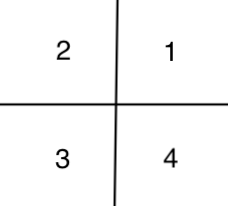
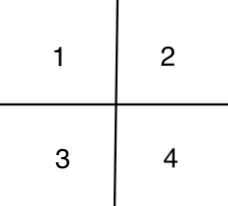
Changed positions and started making changes for multiple shapes.

Changed region(s): [[0.2149, 0.1748, 0.307, 0.3204], [0.7061, 0.2039, 0.7675, 0.3204]]

diff --git a/ACS330_WebApp/Item_Order.html b/ACS330_WebApp/Item_Order.html
@@ -229,7 +229,7 @@
 
 	.column {
 		float: left;
-		width: 33.33%;
+		width: 50%;
 		padding: 2px;
 	}
 
@@ -260,25 +260,38 @@
 	<fieldset>
 	<div class="row">
 		<div class="column";">
-			<h2>Position</h2>
-			<input type="radio" name="Position"> <a class="ref">1</a><br />
-			<input type="radio" name="Position"> <a class="ref">2</a><br />
-			<input type="radio" name="Position"> <a class="ref">3</a><br />
-			<input type="radio" name="Position"> <a class="ref">4</a><br />
-
+			<h2>Position 1:</h2>
+			<input type="radio" name="Shape1"> <a class="ref">Circle</a><br />
+			<input type="radio" name="Shape1"> <a class="ref">Square</a><br />
+			<input type="radio" name="Shape1"> <a class="ref">Triangle</a><br />
+			<input type="radio" name="Shape1"> <a class="ref">Diamond</a><br />
+			<input type="radio" name="Shape1"> <a class="ref">None</a><br />
 		</div>
 		<div class="column";>
-			<h2>Shape</h2>
-			<input type="radio" name="Shape"> <a class="ref">Circle</a><br />
-			<input type="radio" name="Shape"> <a class="ref">Square</a><br />
-			<input type="radio" name="Shape"> <a class="ref">Triangle</a><br />
-			<input type="radio" name="Shape"> <a class="ref">Diamond</a><br />
-
+			<h2>Position 2:</h2>
+			<input type="radio" name="Shape2"> <a class="ref">Circle</a><br />
+			<input type="radio" name="Shape2"> <a class="ref">Square</a><br />
+			<input type="radio" name="Shape2"> <a class="ref">Triangle</a><br />
+			<input type="radio" name="Shape2"> <a class="ref">Diamond</a><br />
+			<input type="radio" name="Shape2"> <a class="ref">None</a><br />
 		</div>
 		<div class="column";>
-			<h2>Colour</h2>
-			<input type="radio" name="Colour"> <a class="ref">Black</a><br />
+			<h2>Position 3:</h2>
+			<input type="radio" name="Shape3"> <a class="ref">Circle</a><br />
+			<input type="radio" name="Shape3"> <a class="ref">Square</a><br />
+			<input type="radio" name="Shape3"> <a class="ref">Triangle</a><br />
+			<input type="radio" name="Shape3"> <a class="ref">Diamond</a><br />
+			<input type="radio" name="Shape3"> <a class="ref">None</a><br />
 		</div>
+		<div class="column";>
+			<h2>Position 4:</h2>
+			<input type="radio" name="Shape4"> <a class="ref">Circle</a><br />
+			<input type="radio" name="Shape4"> <a class="ref">Square</a><br />
+			<input type="radio" name="Shape4"> <a class="ref">Triangle</a><br />
+			<input type="radio" name="Shape4"> <a class="ref">Diamond</a><br />
+			<input type="radio" name="Shape4"> <a class="ref">None</a><br />
+		</div>
+
 	</div>
 	<br />
 	<input type="button" onclick=submit(); value="Order Item" class="form_button" />
